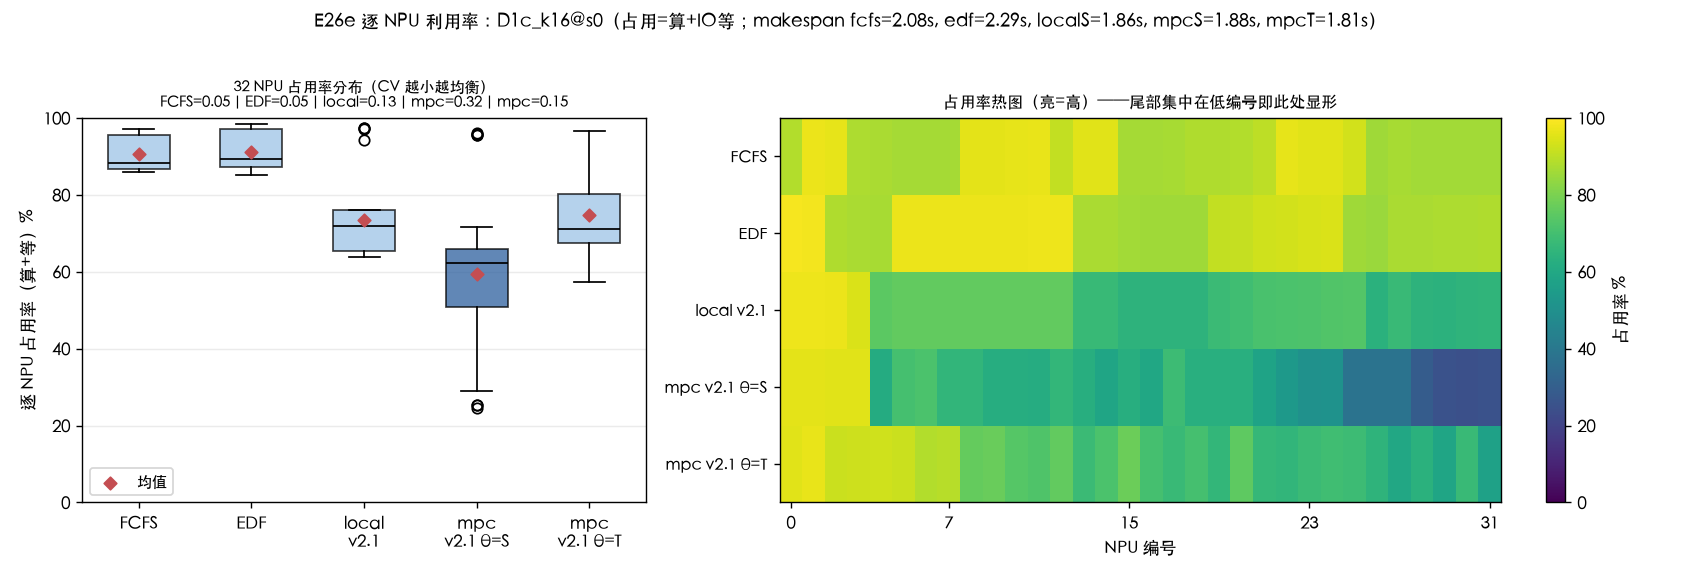
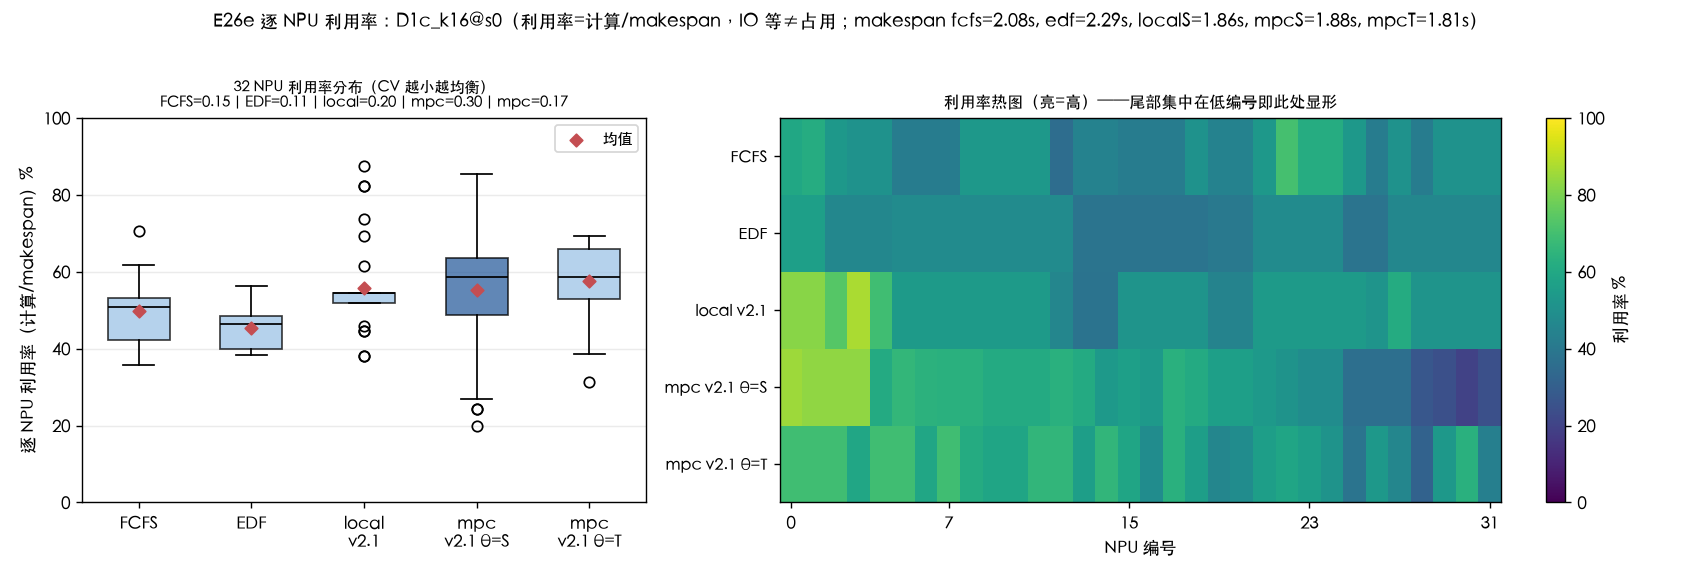
fix(tools): NPU 利用率口径修正——只算计算时间，IO 等/空闲不计占用
用户裁定（20261011）：初版把 IO 等待计入'占用'（算+等/makespan），
STALL 是数据未到位的计算单元空转，不算 NPU 占用。修正：
- util 图箱线/CV/热图/表全部改用利用率=计算/makespan；含等口径降为
  对照列（与纯算之差=IO 等占比，看穿 FCFS 高占用假象：k16 含等 91%
  vs 纯算 51%）
- 新口径结论更锐：mpcS/mpcT 利用率中位最高（k16 59% vs FCFS 51%/EDF
  46%）且含等与纯算几乎重合（差 5~18pp vs 基线 31~46pp）——MPC 的
  NPU 时间几乎全在计算；FCFS/EDF CV 最小（0.11~0.15）=均匀地浪费；
  mpcS CV 最大（0.30）=错峰的刻意不均衡换计算密度
- §8 执行记录补口径修正条目

diff --git a/tools/e26e_fig.py b/tools/e26e_fig.py
@@ -240,11 +240,13 @@ def build_bar(audit_only: bool):
 def build_util(cell: str, rep: int, audit_only: bool):
     """逐 NPU 利用率：箱线（32 NPU 分布）+ 热图（编号维度）双 panel。
 
-    均衡口径：不用全局聚合（总设备时间比）——它无法区分"均匀忙"与
-    "少数忙多数闲"；改用逐 NPU 占用率 u_i=(A算+B算+IO等)/makespan 的
-    分布（min/p50/p90/max + CV=σ/μ），CV 越小负载越均衡；纯算口径
-    c_i=(A算+B算)/makespan 另列。makespan 由 gantt meta 的
-    T_anchor_s/1.1 精确反推（run_cell 中 anchor=makespan×1.1）。
+    口径（20261011 用户裁定）：NPU 利用率 = 计算时间(A算+B算)/makespan
+    ——只有计算算占用；IO 等（STALL，数据未到位计算单元空转）与空闲均
+    不计。含等口径（算+等）仅作 stdout 对照：它度量"worker 槽位被派活"，
+    会把 FCFS 的红海伪装成高占用。均衡度量：逐 NPU 利用率分布的
+    min/p50/p90/max + CV=σ/μ（CV 越小越均衡），不用全局聚合（无法区分
+    "均匀忙"与"少数忙多数闲"）；热图保留编号维度。makespan 取自 records
+    （gantt 的 T_anchor 是首臂口径，非首臂不可用）。
     """
     import matplotlib
     matplotlib.use("Agg")
@@ -269,13 +271,13 @@ def build_util(cell: str, rep: int, audit_only: bool):
         g = json.load(gzip.open(p))
         m = mk.get(fn) or g["meta"]["T_anchor_s"] / 1.1
         makespans[fn] = m
-        acc = np.zeros(g["meta"]["m_workers"])
-        acc_c = np.zeros(g["meta"]["m_workers"])
+        acc_disp = np.zeros(g["meta"]["m_workers"])   # 含等（对照）
+        acc_c = np.zeros(g["meta"]["m_workers"])      # 纯算（主口径）
         for bk in g["buckets"]:
             for wid, (a, b, w, _idle) in enumerate(bk):
-                acc[wid] += a + b + w
+                acc_disp[wid] += a + b + w
                 acc_c[wid] += a + b
-        stats[fn] = (acc / m, acc_c / m)
+        stats[fn] = (acc_c / m, acc_disp / m)
     labels = [l for l, _ in ROWS]
     data = [stats[fn][0] * 100 for _l, fn in ROWS]
     fig, (ax1, ax2) = plt.subplots(1, 2, figsize=(13.6, 4.6), dpi=125,
@@ -289,12 +291,12 @@ def build_util(cell: str, rep: int, audit_only: bool):
     means = [np.mean(x) for x in data]
     ax1.scatter(range(1, 6), means, marker="D", s=26, color="#C44E52",
                 zorder=3, label="均值")
-    ax1.set_ylabel("逐 NPU 占用率（算+等）%", fontsize=10)
+    ax1.set_ylabel("逐 NPU 利用率（计算/makespan）%", fontsize=10)
     ax1.set_ylim(0, 100)
     ax1.grid(axis="y", alpha=.25)
     ax1.legend(fontsize=8.5)
     cvs = [f"CV={np.std(x)/np.mean(x):.2f}" for x in data]
-    ax1.set_title("32 NPU 占用率分布（CV 越小越均衡）\n"
+    ax1.set_title("32 NPU 利用率分布（CV 越小越均衡）\n"
                   + "｜".join(f"{l.split(' ')[0]}{c[2:]}" for l, c in
                               zip(labels, cvs)), fontsize=8.6)
     mat = np.array(data)
@@ -303,11 +305,11 @@ def build_util(cell: str, rep: int, audit_only: bool):
     ax2.set_yticklabels(labels, fontsize=9)
     ax2.set_xticks([0, 7, 15, 23, 31])
     ax2.set_xlabel("NPU 编号", fontsize=10)
-    ax2.set_title("占用率热图（亮=高）——尾部集中在低编号即此处显形",
+    ax2.set_title("利用率热图（亮=高）——尾部集中在低编号即此处显形",
                   fontsize=9)
-    fig.colorbar(im, ax=ax2, label="占用率 %")
+    fig.colorbar(im, ax=ax2, label="利用率 %")
     fig.suptitle(f"E26e 逐 NPU 利用率：{tag}"
-                 f"（占用=算+IO等；makespan "
+                 f"（利用率=计算/makespan，IO 等≠占用；makespan "
                  f"{', '.join(f'{fn.split(chr(95))[0]}={makespans[fn]:.2f}s' for _l, fn in ROWS)}）",
                  fontsize=10.5)
     fig.tight_layout(rect=(0, 0, 1, 0.96))
@@ -317,11 +319,11 @@ def build_util(cell: str, rep: int, audit_only: bool):
                     dpi=125)
     plt.close(fig)
     print(f"{tag}: util 图文字重叠 {len(ov)} 对")
-    for (_l, fn), (u, c) in zip(ROWS, stats.values()):
-        print(f"  {_l:12s} 占用 min/p50/p90/max="
-              f"{u.min():.0%}/{np.median(u):.0%}/{np.quantile(u,.9):.0%}/"
-              f"{u.max():.0%} CV={u.std()/u.mean():.2f} 纯算均值={c.mean():.0%}"
-              f" makespan={makespans[fn]:.3f}s")
+    for (_l, fn), (c, d) in zip(ROWS, stats.values()):
+        print(f"  {_l:12s} 利用率(纯算) min/p50/p90/max="
+              f"{c.min():.0%}/{np.median(c):.0%}/{np.quantile(c,.9):.0%}/"
+              f"{c.max():.0%} CV={c.std()/c.mean():.2f} 均值={c.mean():.0%}"
+              f"｜含等对照均值={d.mean():.0%} makespan={makespans[fn]:.3f}s")
     return len(ov)
 
 

diff --git a/实验结果-E26e-A簇泊松集中度实验-20261009.md b/实验结果-E26e-A簇泊松集中度实验-20261009.md
@@ -120,24 +120,24 @@ TTFT 分位与 §1.1/1.2 均值表互补:mpcS 的**中位 TTFT 比 FCFS 好 2~3 
 
 **读法**:①mpc 两条曲线在**中段大幅靠左**——一半请求的 TTFT ≤0.24~0.28s(mpcS/mpcT)vs FCFS 的 0.56~0.77s,"多数人等得少"由 B 插队稳过贡献(§1 要点 4 的跷跷板);②**尾部交叉**:k16 的 mpcS/mpcT 曲线在 CDF≈0.95 之后越过 FCFS——最后 5~10% 是注定超时的死 A(缓发、最后跑完),TTFT 大但不再折损 SLO;③EDF 全程最靠右(p95 1.30~1.35s);④各策略曲线与其同色期限点线的交点纵坐标即 SLO 率(与 §1 表一致:mpc 0.60、FCFS 0.49 @k16)。
 
-### 3.5 逐 NPU 利用率(左=32 NPU 占用率箱线+CV,右=逐编号热图)
+### 3.5 逐 NPU 利用率(左=32 NPU 利用率箱线+CV,右=逐编号热图)
 
 ![util-k16](docs/figures/cq_fig_e26e_util_D1c_k16@s0.png)
 
 ![util-k4](docs/figures/cq_fig_e26e_util_D1c_k4@s0.png)
 
-**口径(为什么这样定义"均衡")**:占用率 u_i=(A算+B算+IO等)_i/makespan、纯算率 c_i=(A算+B算)_i/makespan,逐 NPU 计算后报 min/p50/p90/max 与 **CV=σ/μ**(CV 越小 32 个 NPU 越均衡)。**不用全局聚合占用**(Σbusy/(m×makespan))做均衡判据——它无法区分"均匀忙"与"少数忙多数闲"两种形态;热图保留编号维度,使"尾部集中在 NPU0~3"这类结构直接可见。
+**口径(20261011 修正)**:NPU 利用率 = **计算时间(A算+B算)÷ makespan**,逐 NPU 计算——只有计算算占用;IO 等待(STALL,下一层数据未到位、计算单元空转)与空闲均不计。含等口径(算+等)度量的是"worker 槽位被派活",会把 FCFS 的红海伪装成高占用(k16 含等 91% vs 纯算 51%),仅作对照列示、两口径之差即该臂的 IO 等占比。**均衡度量**:逐 NPU 利用率分布的 min/p50/p90/max 与 CV=σ/μ(CV 越小 32 个 NPU 越均衡);不用全局聚合(Σbusy/(m×makespan))——它无法区分"均匀忙"与"少数忙多数闲";热图保留编号维度,使"尾部集中在 NPU0~3"直接可见。
 
 | 格点 | 指标 | FCFS | EDF | local | mpcS | mpcT |
 |---|---|---|---|---|---|---|
-| k=16 | 占用 min/p50/max | 86/88/97% | 85/89/99% | 64/72/97% | **25**/62/96% | 57/71/97% |
-| k=16 | CV(σ/μ) | 0.05 | 0.05 | 0.13 | **0.32** | 0.15 |
-| k=16 | 纯算率均值 | 50% | 45% | 56% | 55% | **57%** |
-| k=4 | 占用 min/p50/max | 77/86/92% | 81/87/98% | 70/79/98% | 47/55/99% | 52/62/95% |
-| k=4 | CV | 0.05 | 0.05 | 0.10 | **0.25** | 0.21 |
-| k=4 | 纯算率均值 | 55% | 46% | 57% | 55% | **57%** |
+| k=16 | 利用率 min/p50/max | 36/51/70% | 38/46/56% | 38/54/87% | **20/59**/85% | **31/59**/69% |
+| k=16 | CV(σ/μ) | 0.15 | 0.11 | 0.20 | **0.30** | 0.17 |
+| k=16 | 含等对照均值(差=IO 等) | 91%(41pp) | 91%(46pp) | 74%(18pp) | 60%(5pp) | 75%(18pp) |
+| k=4 | 利用率 min/p50/max | 39/56/68% | 31/47/55% | 41/55/78% | 39/51/91% | 41/54/79% |
+| k=4 | CV | 0.15 | 0.13 | 0.16 | **0.26** | 0.18 |
+| k=4 | 含等对照均值(差=IO 等) | 86%(31pp) | 88%(42pp) | 80%(23pp) | 60%(5pp) | 68%(11pp) |
 
-**读法——均衡≠好**:FCFS/EDF 的 CV=0.05 最"均衡"(每个 NPU 都灌满),但那是**坏均衡**:占用 85%+ 里近一半是 IO 等(纯算率仅 45~50%),红海均匀铺满 32 个 NPU;mpcS 的 CV=0.32 最不均衡、k16 的 min 仅 25%,却是**刻意的不均衡**——错峰(簇心时只放 4 条 A)+尾部只在 NPU0~3 跑死 A(热图低编号列偏暗),换来最高的纯算率与最低的 IO 等(§1 表 4.2%)。**错峰的本质就是用短期的负载不均,换计算密度的提升**;评均衡时应同时看 CV(分布形态)与纯算率(单位时间有效功),只看其一都会误读。守恒自检:各臂纯算率均值×makespan×32 ≈ 总计算量(33.2 NPU·s),逐臂一致。
+**读法——高利用率≠高效率,均衡≠好**:①mpc 两臂的利用率中位全场最高(k16 均 59% vs FCFS 51%/EDF 46%),且它们"含等对照"与纯算几乎重合(差 5~18pp vs 基线的 31~46pp)——**MPC 的 NPU 时间几乎全在计算,基线近一半在空等数据**(与甘特 IO 等 4.2% vs 40.7% 同源);②FCFS/EDF 的 CV 最小(0.11~0.15)、热图均匀——那是"均匀地浪费"(每个 NPU 都被灌满队列却都在等 IO);mpcS 的 CV 最大(k16 0.30、min 20%)——错峰(簇心只放 4 条 A)+尾部只在 NPU0~3 跑死 A 的**刻意不均衡**,换取最高的计算密度;mpcT 形态居中(CV 0.17)且 makespan 最短;③守恒自检:各臂利用率均值×makespan×32 ≈ 总计算量(33.2 NPU·s),逐臂一致。**评均衡时应同时看 CV(分布形态)与利用率均值(有效功密度),只看其一都会误读;把 IO 等计入"占用"则会在口径层把红海误判为高利用。**
 
 ## 4. 预注册假设核对(H1–H4,设计 §2.3)
 
@@ -196,3 +196,4 @@ TTFT 分位与 §1.1/1.2 均值表互补:mpcS 的**中位 TTFT 比 FCFS 好 2~3 
 - 20261010 二轮重跑(逐 run 补落盘 per-request 完成记录,供 §3.4 CDF/§1.3 makespan/§3.5 利用率;新增 `E26E_ARMS` 单臂分片,5 分片 LPT 并行,19:15–06:16 ≈ 39 CPU 小时)。**确定性复现验证:新旧 records 20/20 结果性字段(SLO/分类/TTFT/concA/簇发/带宽/dev/tie/scored/makespan 等)逐位一致**,唯一差异为墙钟环境项(wall_s/ctrl_time_s)。
 - 全部图(2 甘特+2 带宽+1 条形+2 CDF+2 利用率)过 `audit_text_overlap`(0 对重叠);`cq_mpc_health` 12 条 MPC/local run 全部【健康】(fallback 0、dev>0、scored>7k)。
 - 记录字段新增:`requests.json.gz`(rid/cls/arrival/deadline/F_s/ttft 逐请求)、簇冲击列表、k/rep/seed;甘特 anchor 口径提示:gantt 的 T_anchor 为首臂(fcfs)makespan×1.1,跨臂时间轴对齐用,逐臂 makespan 以 records.makespan_s 为准。
+- **NPU 利用率口径修正(20261011 用户裁定)**:初版误把 IO 等待计入"占用"(算+等/makespan)——STALL 是数据未到位的空转,不算 NPU 占用;修正为利用率=计算/makespan,含等口径降为对照列(其与纯算之差=IO 等占比,恰可用来看穿 FCFS 的"高占用"假象:k16 含等 91% vs 纯算 51%)。图/表已按新口径重出。
